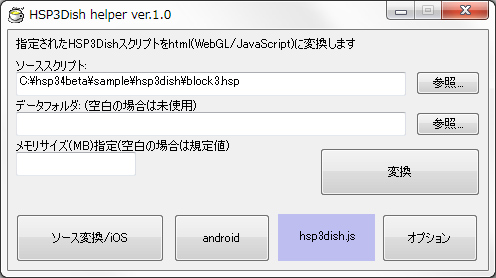
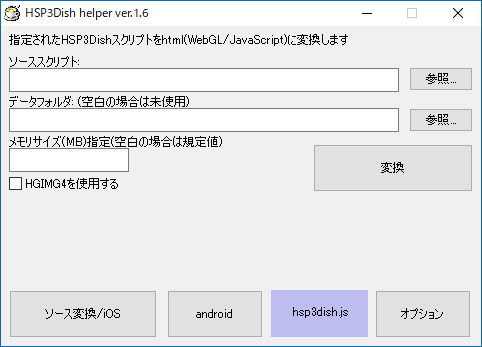
js版hgimg4の更新
git-svn-id: http://dev.onionsoft.net/svn/openhsp/trunk@934 ceb3ebad-0e53-d446-8596-a45b2b8d79cd

Changed region(s): [[0.0, 0.0, 1.0, 1.0], [0.3734, 0.7482, 0.529, 0.777]]

diff --git a/package/win32/hsp3js/template.html b/package/win32/hsp3js/template.html
@@ -267,6 +267,8 @@ function assert(check, msg) {
   if (!check) throw msg + new Error().stack;
 }
 
+$$$mkdirrequest$$$
+
     function DataRequest(start, end, crunched, audio) {
       this.start = start;
       this.end = end;

diff --git a/hsp3dish/win32gp/hgiox.cpp b/hsp3dish/win32gp/hgiox.cpp
@@ -597,6 +597,16 @@ int hgio_title( char *str1 )
 #ifdef HSPWIN
 	SetWindowText( master_wnd, str1 );
 #endif
+
+#if defined(HSPEMSCRIPTEN)
+	SDL_WM_SetCaption( (const char *)str1, NULL );
+#endif
+#if defined(HSPLINUX)
+#ifndef HSPRASPBIAN
+	SDL_WM_SetCaption( (const char *)str1, NULL );
+#endif
+#endif
+
 	return 0;
 }
 
@@ -1400,6 +1410,21 @@ int hgio_gettick( void )
     return (int)(total_tick * 1000.0 );
 #endif
 
+#if defined(HSPEMSCRIPTEN)
+	int i;
+	timespec ts;
+	double nsec;
+	static bool init = false;
+	static int initTime = 0;
+	clock_gettime(CLOCK_REALTIME,&ts);
+	nsec = (double)(ts.tv_nsec) * 0.001 * 0.001;
+	i = (int)ts.tv_sec * 1000 + (int)nsec;
+	if (!init) {
+		init = true;
+		initTime = i;
+	}
+	return i - initTime;
+#endif
 }
 
 

diff --git a/hsp3dish/emscripten/hgiox.cpp b/hsp3dish/emscripten/hgiox.cpp
@@ -753,7 +753,7 @@ int hgio_stick( int actsw )
 }
 
 
-#if defined(HSPEMSCRIPTEN)
+#if defined(HSPLINUX) || defined(HSPEMSCRIPTEN)
 static const unsigned int key_map[256]={
 	/* 0- */
 	0, 0, 0, 3, 0, 0, 0, 0, SDLK_BACKSPACE, SDLK_TAB, 0, 0, 12, SDLK_RETURN, 0, 0,
